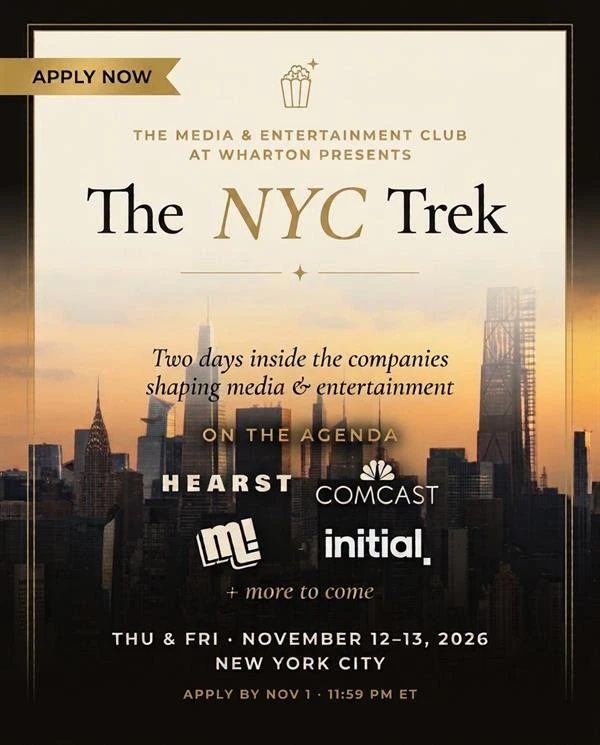
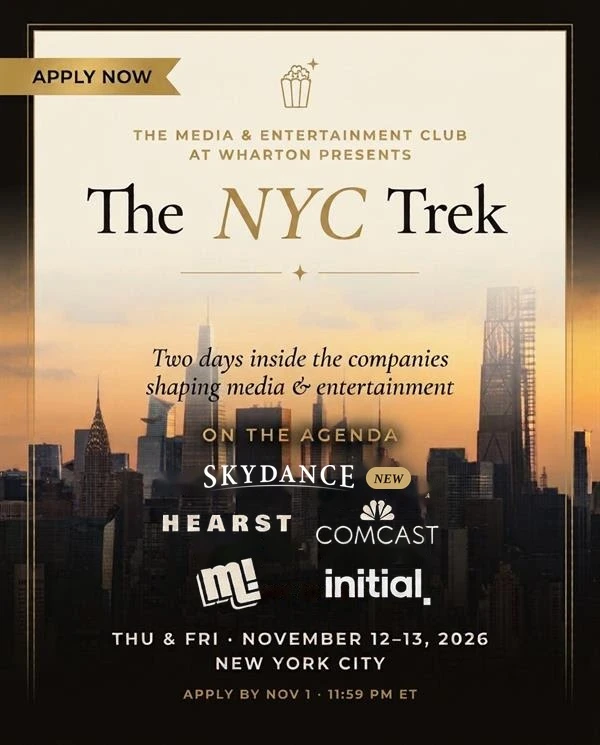
Add files via upload

Changed region(s): [[0.27, 0.6174, 0.72, 0.8336]]

diff --git a/index.html b/index.html
@@ -186,12 +186,13 @@
             <div><strong data-cd="s">--</strong><span>Seconds</span></div>
           </div>
           <p class="sign__note" id="countdownNote">Apply by <strong>Nov 1 · 11:59 PM ET</strong> · Selected applicants notified by Nov 4</p>
+          <a class="apply-btn" id="applyBtn" href="https://docs.google.com/forms/d/e/1FAIpQLSffLQx_DySNlPL050X9CI62S3n82RpYwDX8dqjCMDMtlH2bog/viewform" target="_blank" rel="noopener">🎟 Apply Now <span aria-hidden="true">→</span></a>
         </div>
 
         <div class="trek__grid">
           <figure class="trek__media" data-reveal="tilt">
             <div class="postcard">
-              <img src="images/trek-poster.webp" alt="The NYC Trek poster: two days inside the companies shaping media and entertainment. On the agenda: Hearst, Comcast, Mad Realities, Initial, plus more to come. Thursday and Friday, November 12–13, 2026, New York City. Apply by November 1, 11:59 PM ET." loading="lazy" />
+              <img src="images/trek-poster.webp" alt="The NYC Trek poster: two days inside the companies shaping media and entertainment. On the agenda: Skydance, Hearst, Comcast, Mad Realities, and Initial. Thursday and Friday, November 12–13, 2026, New York City. Apply by November 1, 11:59 PM ET." loading="lazy" />
               <span class="stamp" aria-hidden="true">NYC<small>★ 2026 ★</small></span>
             </div>
           </figure>
@@ -203,11 +204,11 @@
 
             <p class="trek__subhead" data-reveal>On the Agenda</p>
             <ul class="agenda" data-reveal>
+              <li>Skydance</li>
               <li>Hearst Publishing</li>
               <li>Comcast</li>
               <li>Mad Realities</li>
               <li>Initial Group</li>
-              <li class="agenda__more">+ More to come</li>
             </ul>
 
             <p class="trek__subhead" data-reveal>Participants will have the opportunity to:</p>
@@ -236,9 +237,8 @@
               </ul>
               <p class="fineprint__contact">
                 Questions? Contact
-                <a href="mailto:gayatri1@wharton.upenn.edu">Gayatri Sriram</a>,
-                <a href="mailto:irenawan@wharton.upenn.edu">Irena Wan</a>, or
-                <a href="mailto:fleming5@wharton.upenn.edu">Samuel Fleming</a>.
+                <a href="mailto:gayatri1@wharton.upenn.edu">Gayatri Sriram</a> or
+                <a href="mailto:hanakim1@wharton.upenn.edu">Hana Kim</a>.
               </p>
             </div>
           </div>

diff --git a/styles.css b/styles.css
@@ -827,6 +827,32 @@ body.menu-open .burger span:nth-child(2) { top: 19px; transform: rotate(-45deg);
 }
 .sign__note strong { color: var(--bulb); font-weight: 600; }
 
+.apply-btn {
+  display: table;
+  margin: 1.25rem auto .25rem;
+  padding: .75rem 1.9rem .6rem;
+  background: var(--orange);
+  color: var(--cream);
+  border: 3px solid var(--mustard);
+  border-radius: 999px;
+  box-shadow: 5px 5px 0 var(--mustard);
+  font-family: var(--display);
+  font-size: 1.6rem;
+  line-height: 1;
+  letter-spacing: .1em;
+  text-shadow: 2px 2px 0 var(--brown-deep);
+  transition: transform .25s var(--ease), box-shadow .25s var(--ease), background .3s;
+}
+.apply-btn span { display: inline-block; transition: transform .4s var(--bounce); }
+.apply-btn:hover,
+.apply-btn:focus-visible {
+  background: var(--orange-hi);
+  transform: translate(-2px, -2px);
+  box-shadow: 8px 8px 0 var(--mustard);
+}
+.apply-btn:hover span { transform: translateX(5px); }
+.apply-btn:active { transform: translate(4px, 4px); box-shadow: 1px 1px 0 var(--mustard); }
+
 .countdown {
   display: grid;
   grid-template-columns: repeat(4, minmax(0, 1fr));
@@ -972,15 +998,6 @@ body.menu-open .burger span:nth-child(2) { top: 19px; transform: rotate(-45deg);
   color: var(--mustard);
   text-shadow: none;
 }
-.agenda li:nth-last-child(2)::after { content: none; }
-.agenda .agenda__more {
-  margin-left: .8rem;
-  font-family: var(--script);
-  font-size: clamp(1.4rem, 2.2vw, 1.75rem);
-  letter-spacing: 0;
-  color: var(--mustard);
-}
-
 /* "Good to Know" ticket card */
 .trek__callout {
   position: relative;

diff --git a/script.js b/script.js
@@ -228,6 +228,7 @@
   const countdown = document.getElementById('countdown');
   const countdownLabel = document.getElementById('countdownLabel');
   const countdownNote = document.getElementById('countdownNote');
+  const applyBtn = document.getElementById('applyBtn');
   const appsClose = new Date('2026-11-01T23:59:00-05:00');
   const trekStart = new Date('2026-11-12T09:00:00-05:00');
   const trekEnd = new Date('2026-11-13T23:59:59-05:00');
@@ -244,6 +245,7 @@
     if (now >= trekStart) {
       countdownLabel.textContent = 'Lights, Camera, NYC';
       countdownNote.remove();
+      if (applyBtn) applyBtn.remove();
       countdown.classList.add('is-live');
       countdown.textContent = 'The trek is happening now — see you in NYC!';
       return false;
@@ -255,6 +257,7 @@
         countdownLabel.textContent = 'Now Boarding For The Big Apple';
         countdownNote.textContent = 'Applications are closed · Selected applicants notified by Nov 4';
       }
+      if (applyBtn) applyBtn.remove();
     }
     let s = Math.floor((target - now) / 1000);
     const d = Math.floor(s / 86400); s -= d * 86400;
